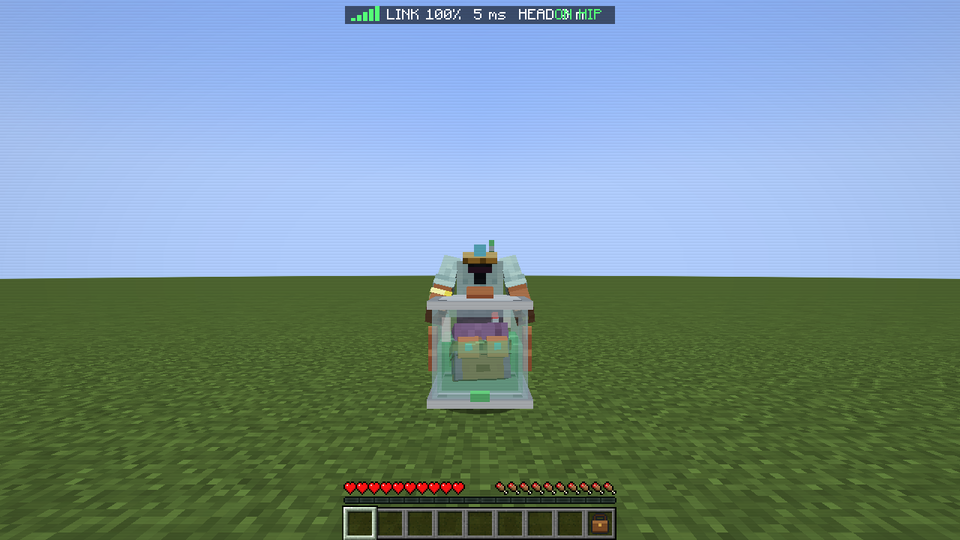
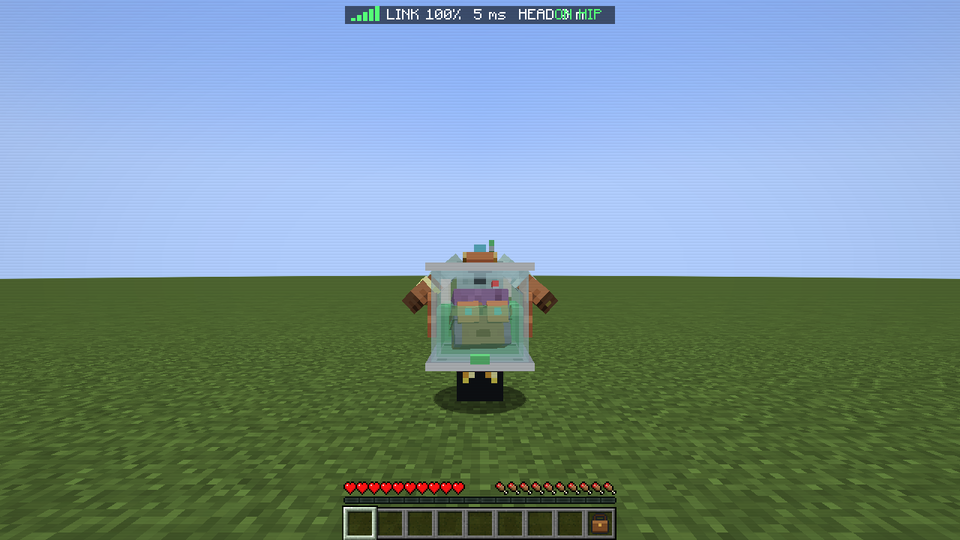
Hold the carried jar in your hands
In third person the jar is now placed between your hands every frame, at their grip points on
its sides, so it moves and tilts with them as they sway, whatever is animating the arms. The
arms open wide enough to hug the life-size jar. On your back it still rides on your body, and
picking it up swings it round your side between the two.

Changed region(s): [[0.4062, 0.4444, 0.5938, 0.7704]]

diff --git a/src/main/java/com/coolfreeze23/headinajar/client/HeadCarry.java b/src/main/java/com/coolfreeze23/headinajar/client/HeadCarry.java
@@ -8,6 +8,7 @@ import com.mojang.math.Axis;
 import net.minecraft.client.Minecraft;
 import net.minecraft.client.model.HumanoidModel;
 import net.minecraft.client.model.PlayerModel;
+import net.minecraft.client.model.geom.ModelPart;
 import net.minecraft.client.player.AbstractClientPlayer;
 import net.minecraft.client.player.LocalPlayer;
 import net.minecraft.client.renderer.MultiBufferSource;
@@ -16,6 +17,7 @@ import net.minecraft.client.renderer.texture.OverlayTexture;
 import net.minecraft.util.Mth;
 import net.minecraft.world.entity.LivingEntity;
 import net.minecraft.world.entity.player.Player;
+import org.joml.Matrix4f;
 import org.joml.Quaternionf;
 import org.joml.Vector3f;
 
@@ -25,9 +27,9 @@ import java.util.UUID;
 import java.util.WeakHashMap;
 
 /**
- * Carrying your own head. With an empty main hand you hold the jar in both arms in front of you: it lifts up from the
- * satchel when you pick it up, sways and bobs with your steps, and your head inside looks up at you. Holding anything
- * swings it round onto your back.
+ * Carrying your own head. With an empty main hand you hold the jar in both arms in front of you, by its sides: it swings
+ * round from your back when you pick it up, turns with your hands as they sway, and your head inside looks up at you.
+ * Holding anything swings it round onto your back.
  */
 public final class HeadCarry {
     /** Ticks for the jar to come up out of the satchel into your arms (and back down). */
@@ -99,41 +101,75 @@ public final class HeadCarry {
         }
     }
 
+    /**
+     * The carrying pose: both arms forward and opened wide round the jar, which is twice as wide as you are, so each hand
+     * lands just outside the glass on its side (about 10.5 px out, 6 px down and 6 px in front of the shoulders).
+     */
+    private static final float ARMS_FORWARD = -0.75f, ARMS_OUT = 0.82f;
+
     private static void applyArms(HumanoidModel<?> model, Player player, float limbSwing, float limbSwingAmount, float age) {
         float lift = lift(player, age);
         if (lift <= 0) return;
-        // a gentle sway with each step, and a little breathing
+        // a gentle sway with each step (the jar turns with it), and a little breathing
         float sway = Mth.cos(limbSwing * 0.6662f) * 0.1f * limbSwingAmount;
         float breathe = Mth.sin(age * 0.067f) * 0.03f;
-        float x = -0.78f + breathe;
+        float x = ARMS_FORWARD + breathe;
         model.rightArm.xRot = Mth.lerp(lift, model.rightArm.xRot, x + sway);
         model.leftArm.xRot = Mth.lerp(lift, model.leftArm.xRot, x - sway);
         model.rightArm.yRot = Mth.lerp(lift, model.rightArm.yRot, 0);
         model.leftArm.yRot = Mth.lerp(lift, model.leftArm.yRot, 0);
-        // the jar is wider than you are: the arms open out round it
-        model.rightArm.zRot = Mth.lerp(lift, model.rightArm.zRot, 0.24f);
-        model.leftArm.zRot = Mth.lerp(lift, model.leftArm.zRot, -0.24f);
+        model.rightArm.zRot = Mth.lerp(lift, model.rightArm.zRot, ARMS_OUT);
+        model.leftArm.zRot = Mth.lerp(lift, model.leftArm.zRot, -ARMS_OUT);
     }
 
+    /** Where the hands hold the jar: this far up from its base, and this far behind its middle (pixels). */
+    private static final float GRIP_UP = 9, GRIP_BACK = 4.5f;
+
     /**
-     * Third person, in body space (after body.translateAndRotate), life size: held in front against your stomach, or
-     * strapped to your back while your hands are busy (your head looking out behind you). Picking it up swings it round your
-     * side; walking bobs and tilts it.
+     * Third person, in model space, life size. In your arms the jar is held by your hands: it is placed between them every
+     * frame (their grip points on its sides), so it moves and turns with them, whatever is animating the arms. Strapped to
+     * your back while your hands are busy, it rides on your body, your head looking out behind you. Picking it up swings it
+     * round your side between the two.
      */
     public static void drawCarried(PoseStack pose, MultiBufferSource buffers, int light, AbstractClientPlayer player, JarState state,
-                                   float limbSwing, float limbSwingAmount, float age) {
+                                   HumanoidModel<?> model, float limbSwing, float limbSwingAmount, float age) {
         float lift = lift(player, age);
+        // on your back: in body space, facing backwards, bobbing a little with your steps
+        PoseStack back = new PoseStack();
+        model.body.translateAndRotate(back);
         float bob = Mth.sin(limbSwing * 0.6662f * 2) * 0.012f * limbSwingAmount;
-        float tilt = Mth.sin(limbSwing * 0.6662f) * 4 * limbSwingAmount;
-        float swing = Mth.sin(lift * Mth.PI) * 12;
-        pose.translate(-swing / 16.0, Mth.lerp(lift, BACK_Y, FRONT_Y) / 16.0 + bob, Mth.lerp(lift, BACK_Z, FRONT_Z) / 16.0);
-        pose.mulPose(Axis.ZP.rotationDegrees(tilt));
-        pose.mulPose(Axis.XP.rotationDegrees(180));
-        // on your back the jar faces backwards; in your arms forwards, with your head turned round to look up at you
-        pose.mulPose(Axis.YP.rotationDegrees(180 * (1 - lift)));
+        back.translate(0, BACK_Y / 16.0 + bob, BACK_Z / 16.0);
+        back.mulPose(Axis.ZP.rotationDegrees(Mth.sin(limbSwing * 0.6662f) * 4 * limbSwingAmount));
+        back.mulPose(Axis.XP.rotationDegrees(180));
+        back.mulPose(Axis.YP.rotationDegrees(180));
+        // in your arms: between the hands, square to the line across them
+        Vector3f right = grip(model.rightArm, -1), left = grip(model.leftArm, 1);
+        Vector3f across = new Vector3f(left).sub(right);
+        float flat = Mth.sqrt(across.x * across.x + across.z * across.z);
+        PoseStack front = new PoseStack();
+        front.translate((right.x + left.x) / 2, (right.y + left.y) / 2, (right.z + left.z) / 2);
+        front.mulPose(Axis.YP.rotation((float) -Math.atan2(across.z, across.x)));
+        front.mulPose(Axis.ZP.rotation((float) Math.atan2(across.y, flat)));
+        front.translate(0, GRIP_UP / 16.0, -GRIP_BACK / 16.0);
+        front.mulPose(Axis.XP.rotationDegrees(180));
+        // between the two while it is being picked up or put away, swinging out round your side
+        Matrix4f a = back.last().pose(), b = front.last().pose();
+        Vector3f at = a.getTranslation(new Vector3f()).lerp(b.getTranslation(new Vector3f()), lift);
+        at.x -= Mth.sin(lift * Mth.PI) * 12 / 16f;
+        Quaternionf turn = a.getUnnormalizedRotation(new Quaternionf()).slerp(b.getUnnormalizedRotation(new Quaternionf()), lift);
+        pose.translate(at.x, at.y, at.z);
+        pose.mulPose(turn);
+        // your head turns round inside to look up at you while you hold it
         float headYaw = 180 * lift + Mth.sin(age * 0.05f) * 8 * lift;
         float pitch = -18 * lift;
         JarRenderer.draw(pose, buffers, light, OverlayTexture.NO_OVERLAY, player.getSkin().texture(), headYaw, pitch, age, true, !state.goggles().isEmpty());
+    }
+
+    /** The middle of a hand (2 px in from the end of the arm; side -1 right, 1 left), in model space (blocks). */
+    private static Vector3f grip(ModelPart arm, float side) {
+        PoseStack at = new PoseStack();
+        arm.translateAndRotate(at);
+        return at.last().pose().transformPosition(new Vector3f(side / 16f, 9 / 16f, 0));
     }
 
     /**

diff --git a/src/main/java/com/coolfreeze23/headinajar/client/CollarLayer.java b/src/main/java/com/coolfreeze23/headinajar/client/CollarLayer.java
@@ -17,7 +17,7 @@ import net.minecraft.client.renderer.entity.layers.RenderLayer;
 import net.minecraft.client.renderer.texture.OverlayTexture;
 import net.minecraft.resources.ResourceLocation;
 
-/** On a linked (headless) player: the Collar Cam on the neck, and their own head in its jar on the hip when carried. */
+/** On a linked (headless) player: the Collar Cam on the neck, and their own head in its jar when carried. */
 public class CollarLayer extends RenderLayer<AbstractClientPlayer, PlayerModel<AbstractClientPlayer>> {
     public static final ResourceLocation TEXTURE = HeadInAJar.id("textures/entity/collar_cam.png");
     private static ModelPart collar;
@@ -39,7 +39,12 @@ public class CollarLayer extends RenderLayer<AbstractClientPlayer, PlayerModel<A
         pose.pushPose();
         getParentModel().body.translateAndRotate(pose);
         collar().render(pose, buffers.getBuffer(RenderType.entityCutoutNoCull(TEXTURE)), light, OverlayTexture.NO_OVERLAY);
-        if (state.carryingHead()) HeadCarry.drawCarried(pose, buffers, light, player, state, limbSwing, limbSwingAmount, age);
         pose.popPose();
+        if (state.carryingHead()) {
+            // in model space: in your arms the jar follows your hands, not your body
+            pose.pushPose();
+            HeadCarry.drawCarried(pose, buffers, light, player, state, getParentModel(), limbSwing, limbSwingAmount, age);
+            pose.popPose();
+        }
     }
 }

diff --git a/README.md b/README.md
@@ -129,8 +129,8 @@ your own head. **Let Go** in the jar menu is the last resort: you die and respaw
   wears the goggles and sends the signal. The link quality bar (Q) falls with distance, water, rock, storms, portals and
   jammers; a weak link stutters and fills the screen with static; at zero you wake up in your head.
 - **Swap** between body and head whenever you like. Put your head down, dock it in a **Life Support Cradle**, or carry it in
-  a **Head Satchel** for a perfect link. The jar is carried life size: with an empty hand you hold it in both arms,
-  your head turned round inside to look up at you; hold anything and it swings round onto your back, your head
+  a **Head Satchel** for a perfect link. The jar is carried life size: with an empty hand you hug it in both arms, a
+  hand on each side, and it sways and tilts with your hands as you walk, your head turned round inside to look up at you; hold anything and it swings round onto your back, your head
   watching behind you.
 - **Death is layered.** If your body dies it becomes a corpse that keeps your things, and you wake up in your jar; use a
   **Suture Kit** on it to get back in, or print a new body in the **Body Printer**. Only losing the head is a real death.
